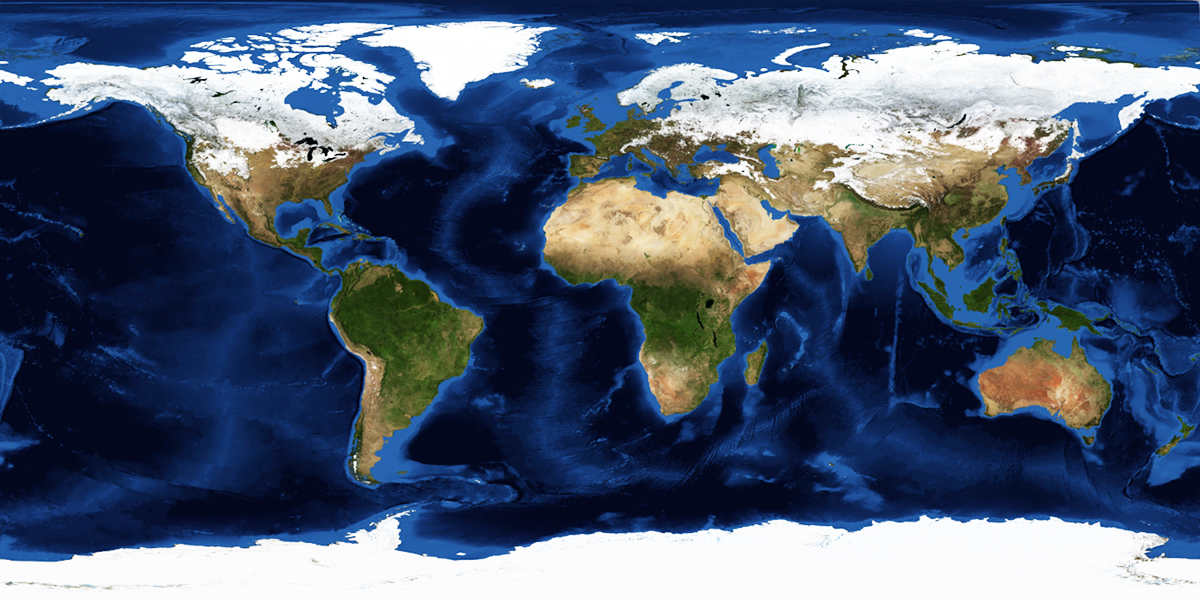
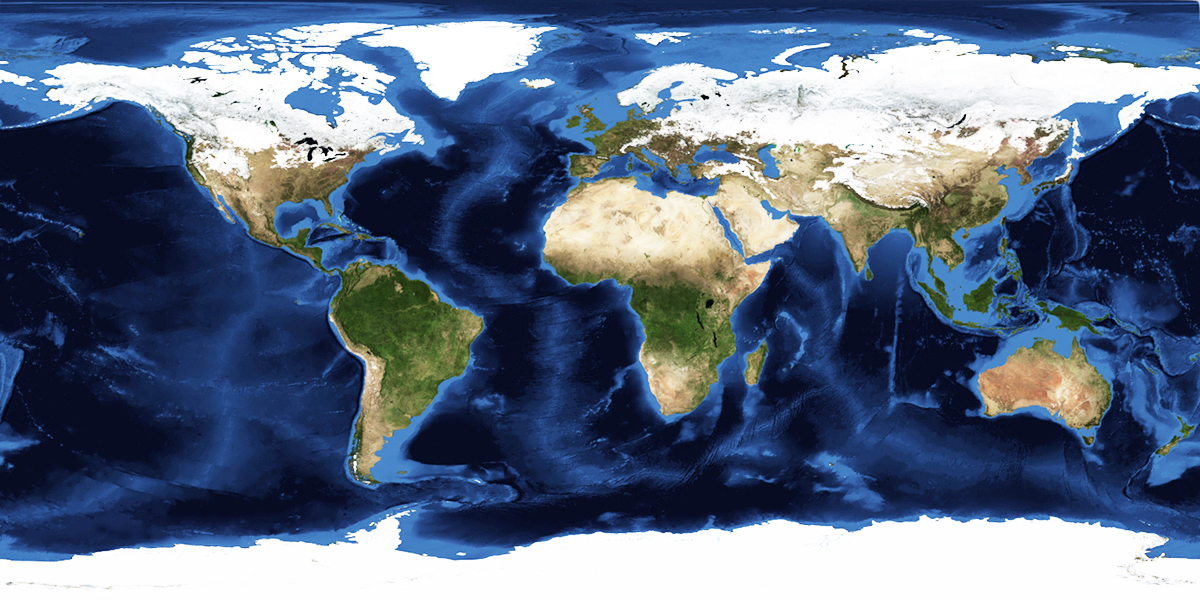
globe has atmosphere

diff --git a/src/App.js b/src/App.js
@@ -7,6 +7,29 @@ import { Stars, shaderMaterial } from "@react-three/drei";
 import glsl from "babel-plugin-glsl/macro";
 import * as THREE from "three";
 
+const AtmosphereShaderMaterial = shaderMaterial(
+  //uniforms
+  {},
+
+  //vertex shader
+  glsl`
+  varying vec3 vertexNormal;
+
+  void main(){
+    vertexNormal = normalize(normalMatrix * normal);
+    gl_Position = projectionMatrix * modelViewMatrix * vec4( position, 1.0 );
+  }`,
+
+  //fragment shader
+  glsl`
+  varying vec3 vertexNormal;
+  void main(){
+    float intensity = 0.62 - dot(vertexNormal, vec3(0,0,1));
+    gl_FragColor = (vec4(0.3,0.6,1.0,1.0) * intensity);
+  }
+  `
+);
+
 const GlobeShaderMaterial = shaderMaterial(
   //uniforms
   { globeTexture: "" },
@@ -17,7 +40,7 @@ const GlobeShaderMaterial = shaderMaterial(
   varying vec3 vertexNormal;
   void main(){
     vertexUV = uv;
-    vertexNormal = normal;
+    vertexNormal =normalize(normalMatrix * normal);
     gl_Position = projectionMatrix * modelViewMatrix * vec4( position, 1.0 );
   }`,
 
@@ -36,6 +59,7 @@ const GlobeShaderMaterial = shaderMaterial(
 );
 
 extend({ GlobeShaderMaterial });
+extend({ AtmosphereShaderMaterial });
 
 const CameraController = () => {
   const { camera, gl } = useThree();
@@ -58,13 +82,18 @@ function Scene() {
       <ambientLight intensity={0.1} />
       <pointLight position={[1, 1, 1]} />
       <mesh>
-        <sphereBufferGeometry attach="geometry" args={[2, 50, 50]} />
+        <sphereBufferGeometry attach="geometry" args={[1.5, 50, 50]} />
         <globeShaderMaterial
           globeTexture={new THREE.TextureLoader().load("globe.jpg")}
         />
       </mesh>
       <mesh>
-        <sphereBufferGeometry attach="geometry" args={[2.1, 50, 50]} />
+        <sphereBufferGeometry attach="geometry" args={[1.57, 50, 50]} />
+        <atmosphereShaderMaterial
+          attach="material"
+          blending={THREE.AdditiveBlending}
+          side={THREE.BackSide}
+        />
       </mesh>
     </>
   );

diff --git a/src/App.css b/src/App.css
@@ -11,7 +11,7 @@ body,
 }
 
 body {
-  background: #000;
+  background: #111;
   position: fixed;
 }
 
